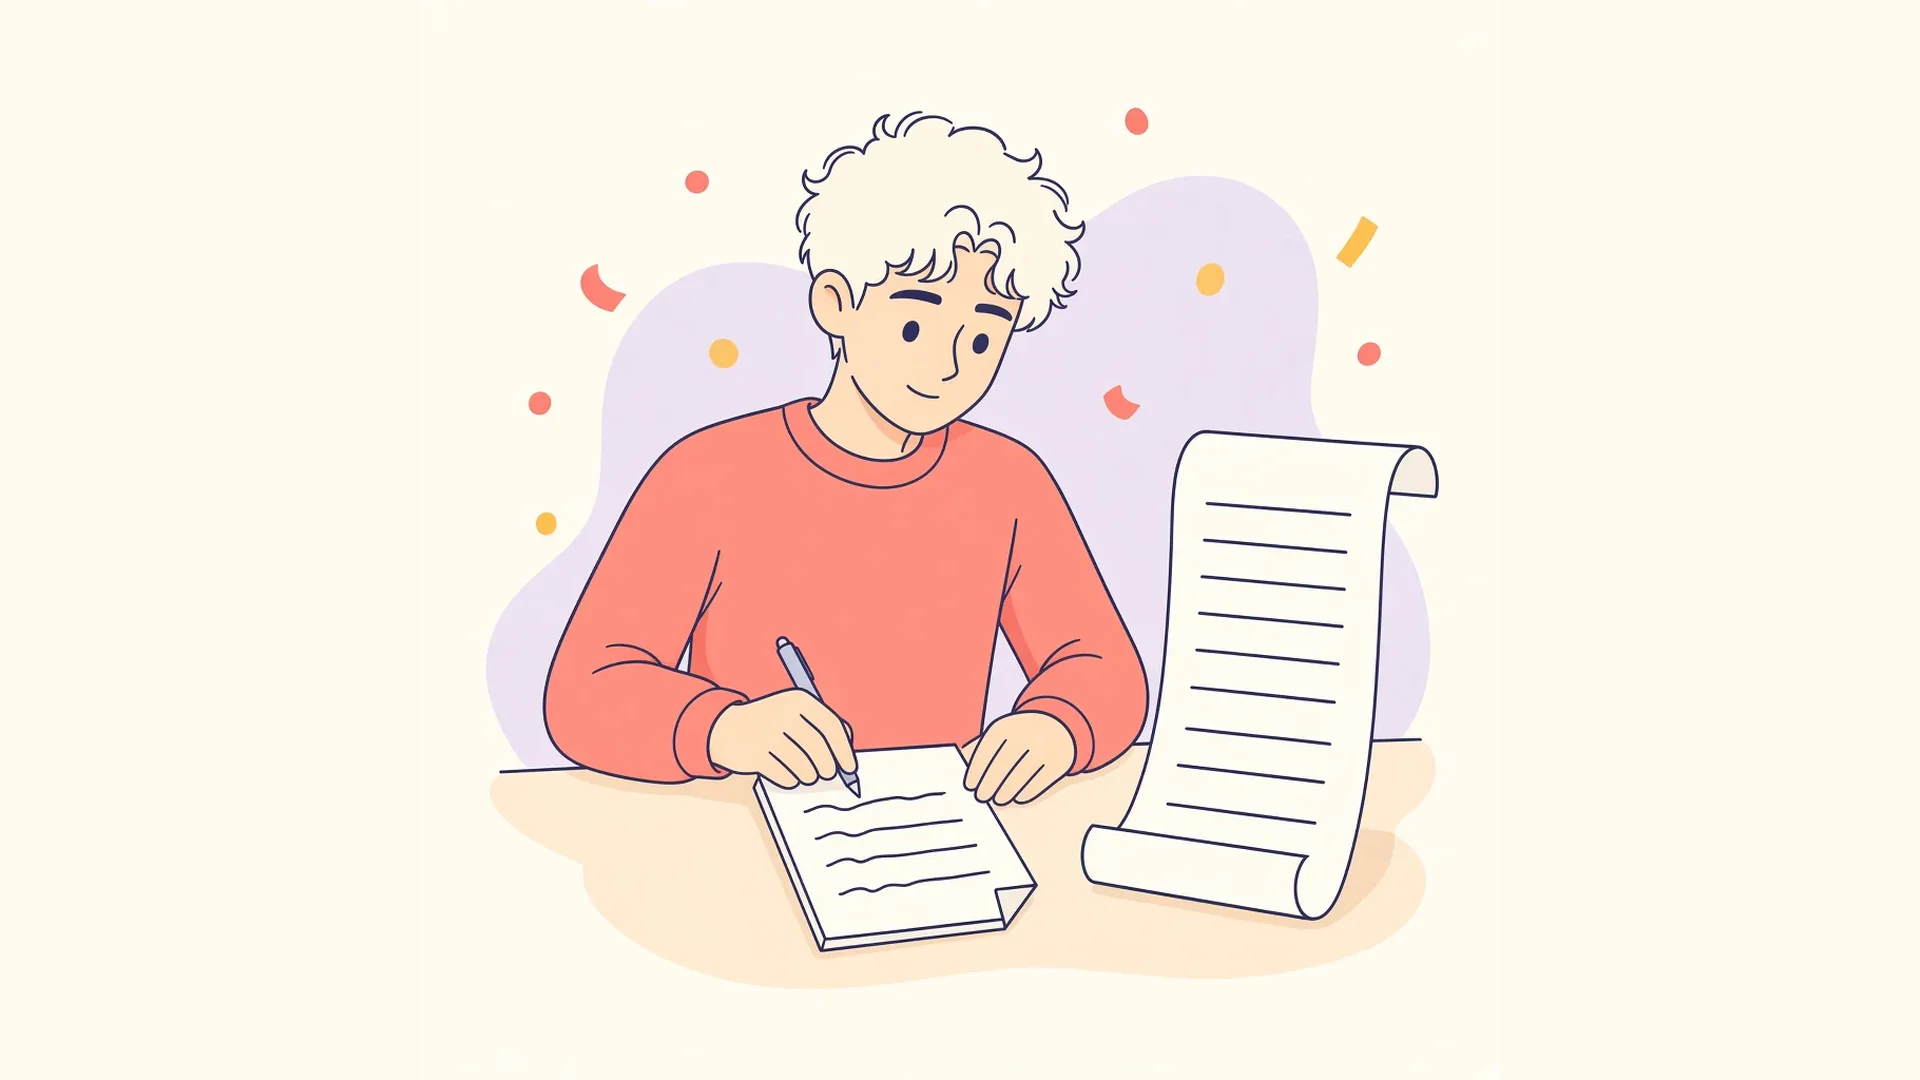
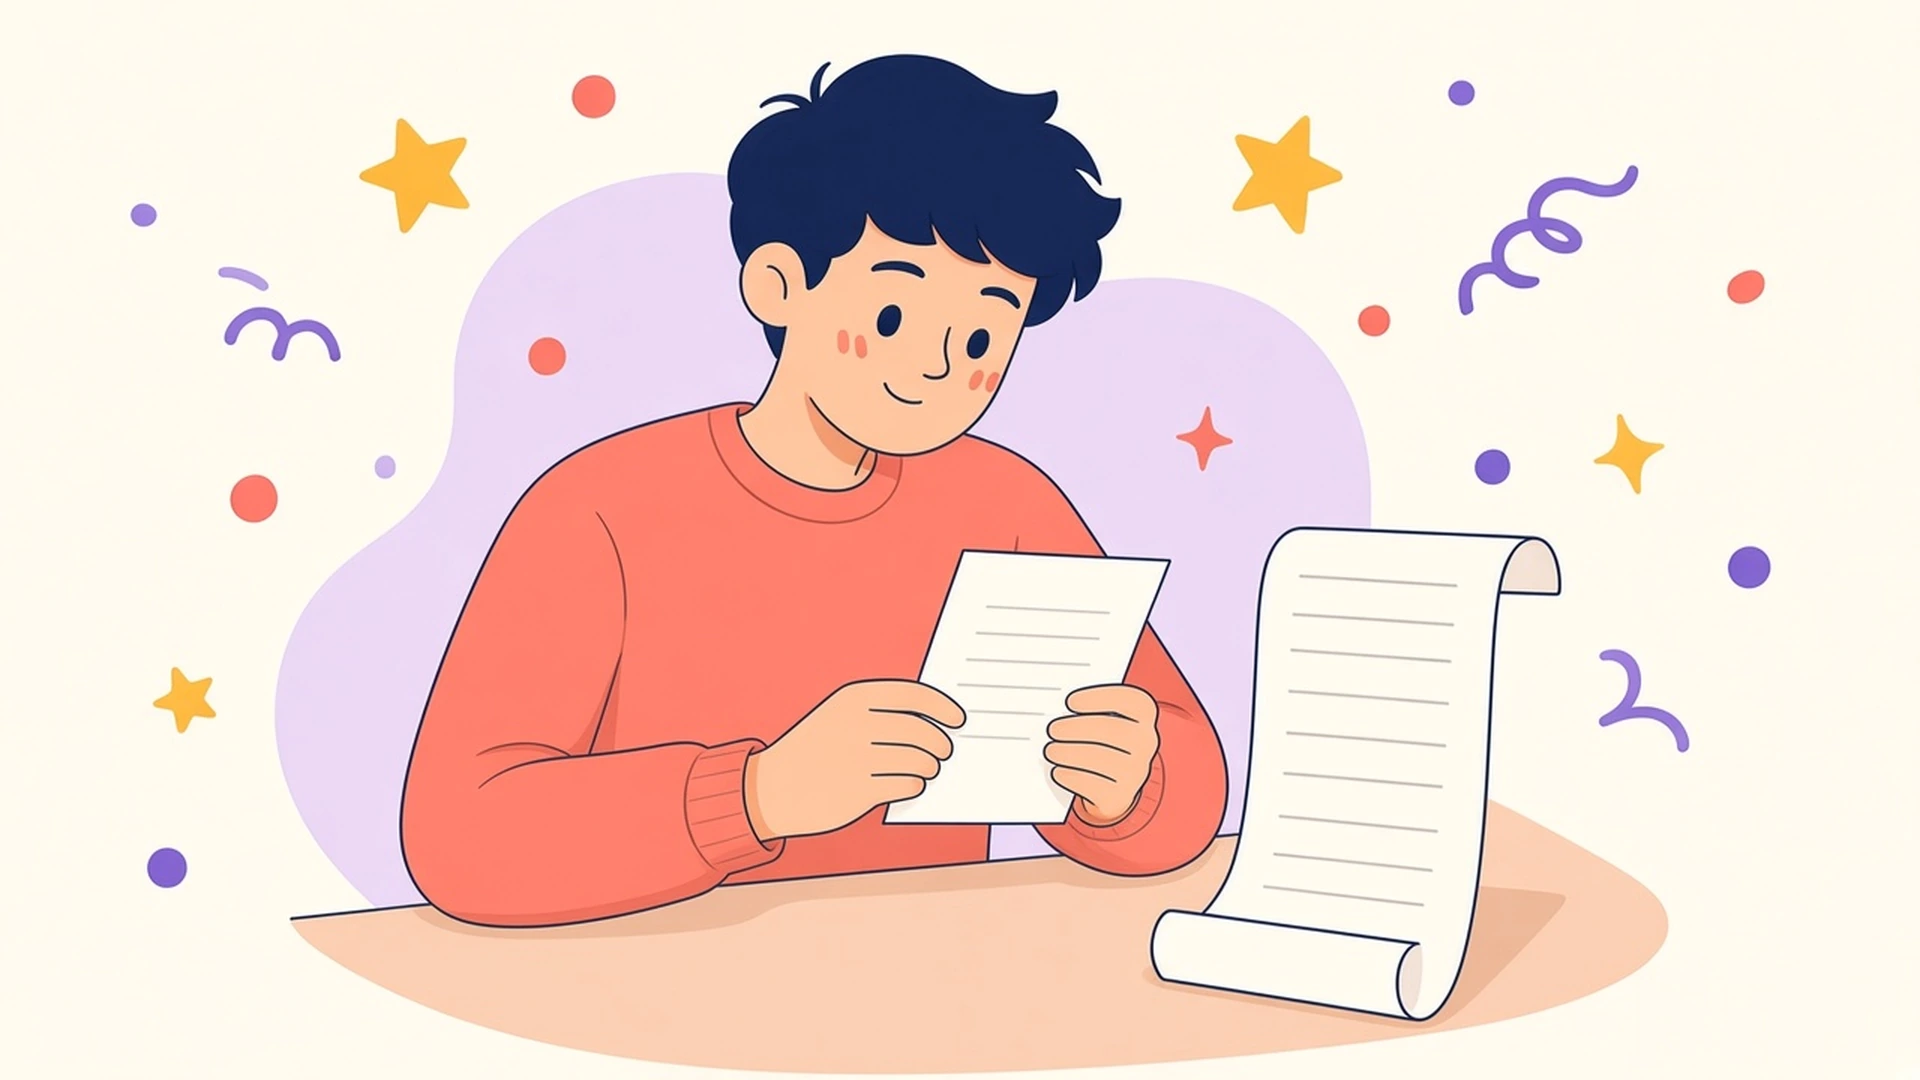
Style C hero swap: ask-for-the-outcome-not-a-longer-prompt (#36)
Replace the washed outline-only webp with Brand Creator's Style C version and align the hero alt. Pad stays #FDFAF5. The Open Graph JPEG is generated at build from this sticker.

diff --git a/content/posts.ts b/content/posts.ts
@@ -1554,7 +1554,7 @@ export const posts: Post[] = [
     dek: "Better results come from a clear outcome, not a longer prompt.",
     hero: {
       src: "/art/digest/ask-for-the-outcome-not-a-longer-prompt-sticker.webp",
-      alt: "A person in a coral sweater points at a short target card while a long scroll of text sits beside the desk.",
+      alt: "A person in a coral sweater holding a short outcome card at a desk beside a long unused scroll, navy outlines, filled navy hair.",
       pad: "#FDFAF5",
     },
     date: "2026-10-29",
